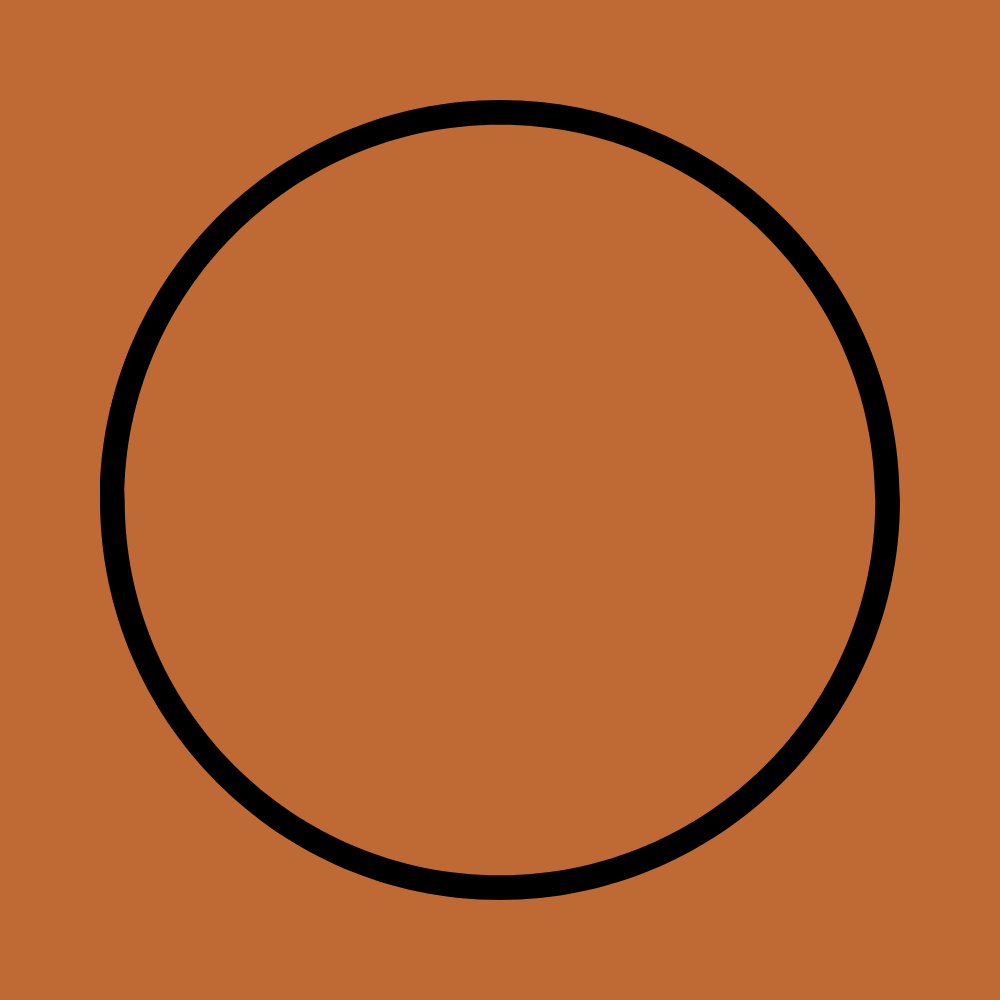
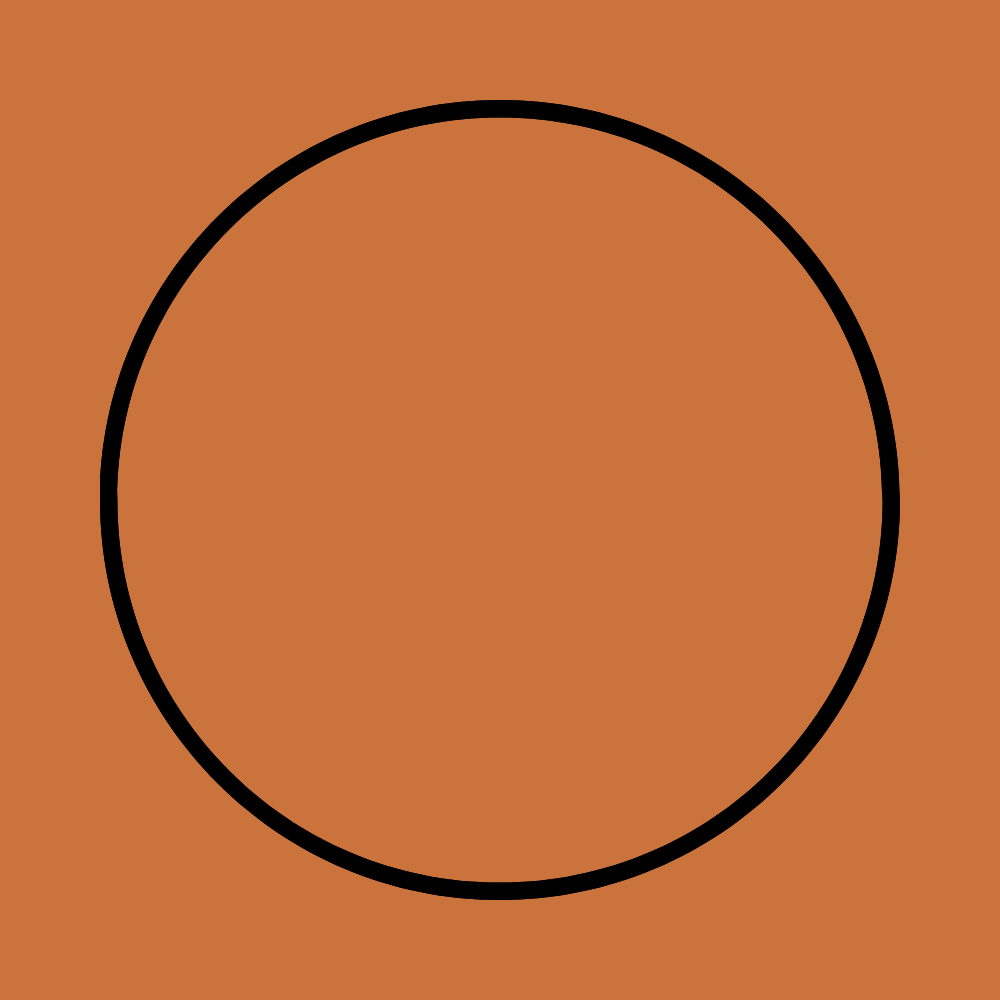
HowToUtiliseMontrealWhileYouStillAreHere

diff --git a/docs/.vitepress/theme/custom.css b/docs/.vitepress/theme/custom.css
@@ -10,7 +10,7 @@
 
 .VPNavBarTitle span {
   font-weight: 900;
-  background-image: linear-gradient(to right, #FFCC00,#569cd6,#6a9955,#f44747,#bf6a34,#c586c0);
+  background-image: linear-gradient(to right, #FFCC00,#569cd6,#6a9955,#f44747,#ca733d,#c586c0);
   color: transparent;
   background-clip: text;
   -webkit-background-clip: text;
@@ -33,7 +33,7 @@
 }
 
 .VPHero .VPButton {
-  background-image: linear-gradient(to right, #FFCC00,#569cd6,#6a9955,#f44747,#bf6a34,#c586c0);
+  background-image: linear-gradient(to right, #FFCC00,#569cd6,#6a9955,#f44747,#ca733d,#c586c0);
   /* color: transparent; */
   /* background-clip: text;
   -webkit-background-clip: text; */
@@ -50,7 +50,7 @@ dev {
 
 beta {
   font-weight: 900;
-  background-image: linear-gradient(to right, #FFCC00,#569cd6,#6a9955,#f44747,#bf6a34,#c586c0);
+  background-image: linear-gradient(to right, #FFCC00,#569cd6,#6a9955,#f44747,#ca733d,#c586c0);
   color: transparent;
   background-clip: text;
   -webkit-background-clip: text;
@@ -84,7 +84,7 @@ via {
 
 motor {
   font-weight: 900;
-  color: #bf6a34;
+  color: #ca733d;
 
 }
 
@@ -134,7 +134,7 @@ error {
 
 .motor {
   font-weight: 900;
-  color: #bf6a34;
+  color: #ca733d;
 
 }
 

diff --git a/docs/PlantaBeta/PlantaBetaOverview.md b/docs/PlantaBeta/PlantaBetaOverview.md
@@ -7,46 +7,22 @@ sidebar: false
 
 # <beta>What is PLANTABETA?</beta>
 
-## <beta>PLANTABETA Logo</beta>
+## In a sentence
 
-::: details Why is it called <beta>PLANTABETA</beta>?
+## In a page
 
-## Etymology of "<beta>PLANTABETA</beta>"
+## In a short video
 
-## Analogies between Climbing and Planting
+## In a 5 minute video
 
-This each line are analog pairs. The equal signs = denotes where Climbing and Planting are exactly the same.
+## In a 10 minute video
 
-|                         **Climbing** | **Planting**                      |
-| -----------------------------------: | :-------------------------------- |
-|                  <beta>BETA</beta> = | = <beta>BETA</beta>               |
-|                     <ekos>EKOS</ekos> = | = <ekos>EKOS</ekos>                  |
-|               <via>VIA</via> = | = <via>VIA</via>            |
-|               <anima>ANIMA</anima> = | = <anima>ANIMA</anima>            |
-|                      <ekos>Wall</ekos> | <ekos>Land</ekos>                   |
-|              <ekos>Wall Section</ekos> | <ekos>Area</ekos>                  |
-|      <via>ContactSurface</via> = | = <via>ContactSurface</via>   |
-|                  <via>Hold</via> | <via>Microsite</via>          |
-|                    <ekos>Volume</ekos> | <ekos>Mound, Trench</ekos>          |
-|                 <ekos>WallAngle</ekos> | <ekos>SlopeAngle</ekos>             |
-|            <motor>ClimbingShoe</motor> | <motor>PlantingBoot</motor>         |
-|                <beta>Redpoint</beta> | <beta>Replanting Required </beta> |
-|          <beta>Flash, Onsight</beta> | <beta>No replanting </beta>       |
-|         <motor>RockOver MOTON </motor>= | = <motor>RockOver MOTON </motor>     |
-|        <via>VIA_Finding</via> = | = <via>VIA_Finding</via>     |
-|             <via>One Pitch</via> | <via>One CoverLoop </via>      |
-|                  <motor>Fall</motor> = | = <motor>Fall</motor>               |
-| <via>Anchor, Belay Station</via> | <via>Cache</via>              |
-|              <via>Approach</via> | <via>Walk In </via>           |
-|                     <ekos>Crag </ekos> | <ekos> Block</ekos>                 |
+## In a 20 minute video
 
-## How is it useful to relate Climbing to Planting?
+## In an hour video
 
-- OffSeason Training
-- Outdoor Climbing has a similar to Planting.
-- Many Plantors are also Climbers and share many attributes.
-    - Resilience, Ruggedness, Physically Fit
-- You will get better at one by learning the other.
+## In a 4 hour podcast
+
 :::
 
 ---

diff --git a/docs/PlantaBeta/Teori/Sistem/SistemOverview.md b/docs/PlantaBeta/Teori/Sistem/SistemOverview.md
@@ -46,9 +46,15 @@ Brazo.Anterior-Down-🟠<motor>Ama</motor>
 
 ---
 
-Send-BrazoAnterior-Plast-Down-🟠<motor>Ama</motor>
+- <BC l='Send's='Brazo_Anterior'e='Plast'v='Down'm='Ama'a='Delicate'/>
 
-Dance-BrazoAnterior-Plast-Down-🟠<motor>Ama</motor>
+- <BC l='Dance's='Brazo_Anterior'e='Plast'v='Down'm='Ama'a='Delicate'/>
+
+- <BC l='Send's=''e=''v=''m=''a='Delicate'/>
+
+- <BC l=''s='Brazo'e=''v=''m='Ama'a=''/>
+
+- <BC l='Dance's=''e=''v=''m='Ama'a=''/>
 
 NameSpace
 
@@ -57,8 +63,8 @@ Betaglot.PlantaBeta.Sistem.Teori.Element.Ekos.Definition.Stump
 ## By Negation
 
 - Definition(Element)
-    - WetSoil-🔻<via>Takt</via> is not an Element
-        - WetSoil is an element and Takt is an element
+    - <BC l=''s=''e='Wet_Soil'v='Takt'm=''a=''/> is not an Element
+        - 🟩<ekos>Wet_Soil</ekos> is an element of <ekos>EKOS</ekos> and 🔻<via>Takt</via> is an element of <via>VIA</via>
 
 ## Based on Euclid's Elements
 
@@ -112,7 +118,31 @@ Call a Proposition
 
 Propose a Proposition
 
-## Beta
+## Exemplars each of Element Group
+
+### <labor>LABOR</labor>
+
+- ⭐<labor>Spade</labor>
+
+### 🔷<soma>SOMA</soma>
+
+- 🔷<soma>Mano</soma>
+
+### <ekos>EKOS</ekos>
+
+- 🟩<ekos>Stump</ekos>
+
+### <via>VIA</via>
+
+- 🔻<via>BoustroLine</via>
+
+### <motor>MOTOR</motor>
+
+-
+
+### <anima>ANIMA</anima>
+
+-
 
 ---
 
@@ -122,6 +152,10 @@ Propose a Proposition
 <!-- =================================================== -->
 <!-- =================================================== -->
 ::: details 🛠
+
+- What is the Sistem
+    - In a sentence
+    - In 100 words
 
 - Moment
     - all the Elements occuring at a given instant

diff --git a/docs/PlantaBeta/Teori/TeoriOverview.md b/docs/PlantaBeta/Teori/TeoriOverview.md
@@ -13,6 +13,8 @@ import BTitle from '/vue/BTitle.vue'
     <BTitle class="my-16" link="/PlantaBeta/Teori/Sistem/SistemOverview">Sistem</BTitle>
 </div>
 
+The system
+
 <div class="my-16">
     <BTitle  link="/PlantaBeta/Teori/Elements/ElementsOverview">Element Groups</BTitle>
 </div>
@@ -26,9 +28,14 @@ import BTitle from '/vue/BTitle.vue'
     <BTitle link="/PlantaBeta/Teori/Komposition/KompositionOverview">Komposition</BTitle>
 </div>
 
+Sheet Music
+
 <div class="my-16">
     <BTitle link="/PlantaBeta/Teori/Betomiks/BetomiksOverview">Betomiks</BTitle>
 </div>
+
+Graphic of Beta
+
 ---
 
 <!-- =================================================== -->

diff --git a/docs/examples/ExampleOverview.md b/docs/examples/ExampleOverview.md
@@ -1,6 +1,6 @@
 # EXAMPLES
 
-<iframe class='youtube' src="https://www.youtube.com/embed/4yygmmGyynw" title="BagOut" frameborder="0" allow="accelerometer; autoplay; clipboard-write; encrypted-media; gyroscope; picture-in-picture; web-share" referrerpolicy="strict-origin-when-cross-origin" allowfullscreen></iframe>
+<iframe class='youtube' src="https://www.youtube-nocookie.com/embed/4yygmmGyynw" title="BagOut" frameborder="0" allow="accelerometer; autoplay; clipboard-write; encrypted-media; gyroscope; picture-in-picture; web-share" referrerpolicy="strict-origin-when-cross-origin" allowfullscreen></iframe>
 
 ---
 
